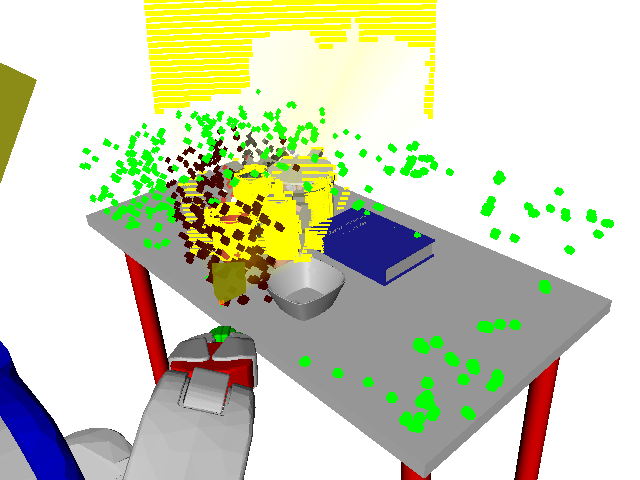
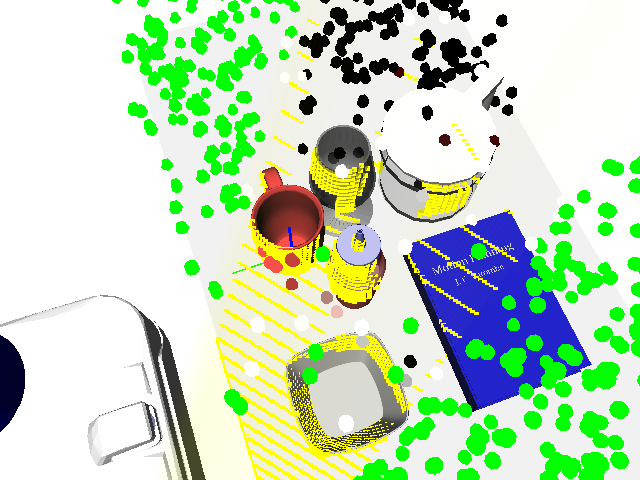
occluded particles getting weighted too much

diff --git a/cpp/pf/eih/eih_system.py b/cpp/pf/eih/eih_system.py
@@ -6,7 +6,6 @@ import colorsys
 
 import numpy as np
 from matplotlib import pyplot as plt
-import scipy
 
 from pr2 import pr2_sim
 from pr2 import utils
@@ -16,6 +15,11 @@ roslib.load_manifest('tfx')
 import tfx
 
 UNKNOWN = -1e6
+
+"""
+TODO LIST:
+- occluded particles getting weighted too much
+"""
 
 class EihSystem:
     def __init__(self, env, manip, kinect):
@@ -52,7 +56,11 @@ class EihSystem:
         #                             np.array((1, .5, UNKNOWN, UNKNOWN, UNKNOWN)),
         #                             np.array((1, 0) + colorsys.rgb_to_hsv(1., 0, 0))]
         
-        self.R = np.diag([.5, .01, .05, 1, 1])
+        self.R = np.diag([.5, .01, .1, 1, 1])
+        
+        # higher it is, more it weights particles inside of FOV
+        # [.5, 1]
+        self.exploitation = .75
         
     def dynfunc(self, x, u):
         x_new = np.array(x + self.DT*u)
@@ -70,9 +78,24 @@ class EihSystem:
         """
         is_in_fov, sd_sigmoid, color = UNKNOWN, UNKNOWN, (UNKNOWN, UNKNOWN, UNKNOWN)
         
-        is_in_fov = 1 if self.kinect.is_in_fov(particle) else .5
+        exact_is_in_fov = 1 if self.kinect.is_in_fov(particle) else .5
+        # sigmoid approximation to check if in FOV
+        y, x = self.kinect.get_pixel_from_point(particle)
+        alpha = 1e6
+        h_l_fov = sigmoid(y, alpha)
+        h_u_fov = sigmoid(-y + self.kinect.height, alpha)
+        w_l_fov = sigmoid(x, alpha)
+        w_u_fov = sigmoid(-x + self.kinect.width, alpha)
+        is_in_fov = h_l_fov*h_u_fov*w_l_fov*w_u_fov
         
-        if is_in_fov == 1:
+        is_in_fov = .5*is_in_fov + .5 # make being out of FOV not so advantageous for gauss likelihood
+        
+        # TEMP
+        #is_in_fov = exact_is_in_fov
+        
+        if is_in_fov > self.exploitation:
+            if exact_is_in_fov != 1:
+                print('CRAPPPPPPPPPPPPPPP')
             particle_dist = self.kinect.distance_to(particle)
             
             y, x = self.kinect.get_pixel_from_point(particle)
@@ -80,7 +103,7 @@ class EihSystem:
             sd = particle_dist - z_buffer[y,x]
             sd_sigmoid = sigmoid(sd, 1e1)
             
-            if abs(sd) < .02:
+            if abs(sd) < .03:
                 image = self.kinect.get_image()
                 r, g, b = tuple(image[y, x]/255.)
                 color = colorsys.rgb_to_hsv(r, g, b)
@@ -113,7 +136,7 @@ class EihSystem:
             
             h, s, v = z_m[2:]
             r, g, b = colorsys.hsv_to_rgb(h, s, v)
-            if z_m[0] != 1: # out of fov
+            if z_m[0] <= .5: # out of fov
                 color = np.array((0,1,0))
             elif z_m[1] < .25: # free space
                 color = np.array((1,1,1))
@@ -256,10 +279,10 @@ def test_eih_system():
         particles_t = particles_tp1
         print('Iter: {0}'.format(t))
         
-        rarm.teleop()
+        #rarm.teleop()
         x_t = rarm.get_joint_values()
         
-        #utils.save_view(env, 'figures/eih_pf_{0}.png'.format(t))
+        utils.save_view(env, 'figures/eih_pf_{0}.png'.format(t))
         
         t += 1
         handles = None

diff --git a/cpp/pf/eih/pr2/utils.py b/cpp/pf/eih/pr2/utils.py
@@ -1,4 +1,5 @@
 import numpy as np
+import scipy
 
 def openraveTransformFromTo(robot, poseMatInRef, refLinkName, targLinkName):
     poseMatInRef = np.array(poseMatInRef)
